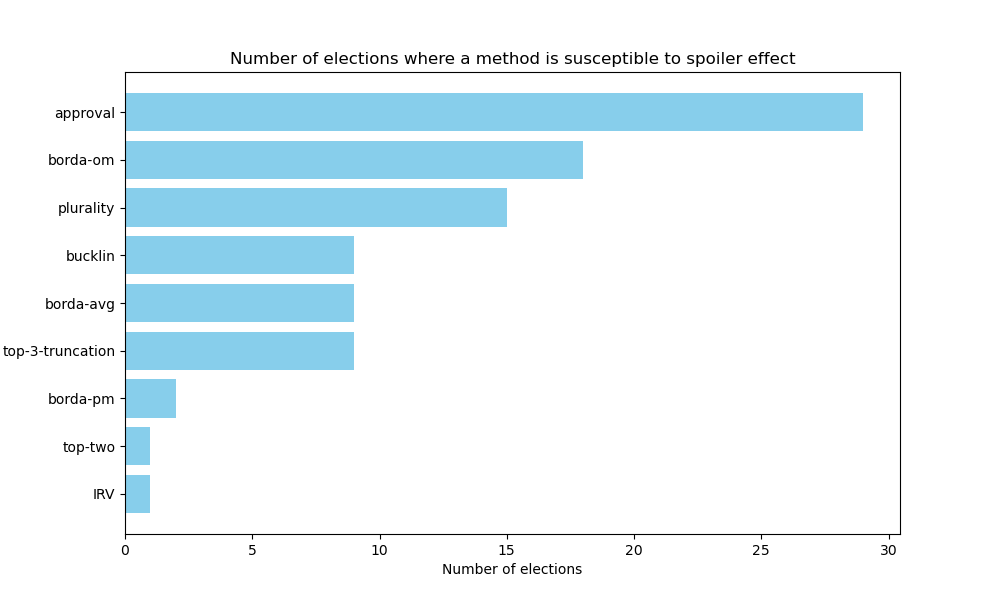
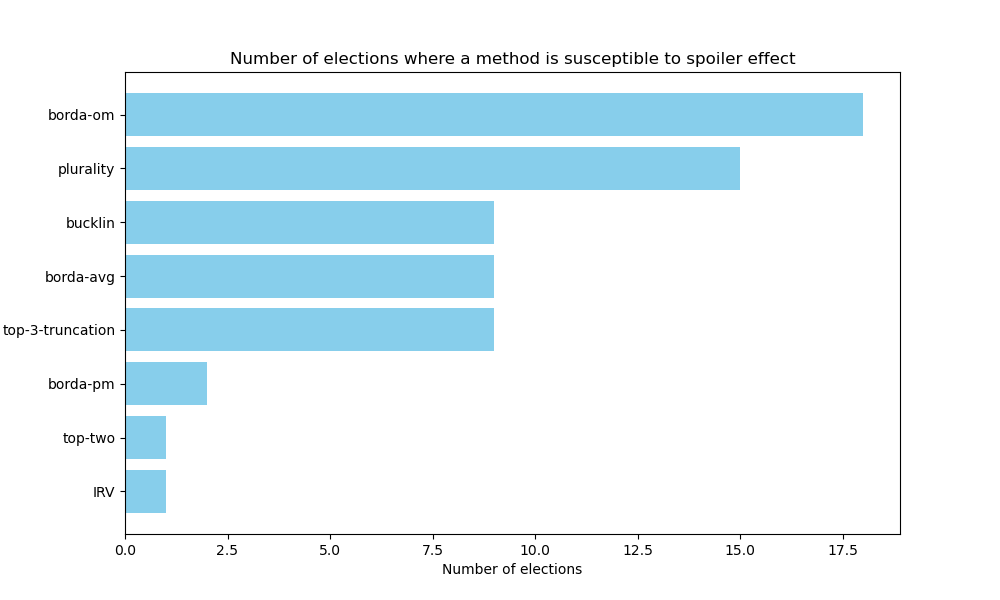
add spoiler graphs w/o approval

diff --git a/analysis/spoiler/generate_graph.py b/analysis/spoiler/generate_graph.py
@@ -8,6 +8,10 @@ def run(country):
 
     data = data["metadata"]["method_counts"]
 
+    del data["approval"]
+
+    print(data)
+
     methods, counts = zip(*sorted(data.items(), key=lambda x: x[1], reverse=True))
 
     plt.figure(figsize=(10, 6))
